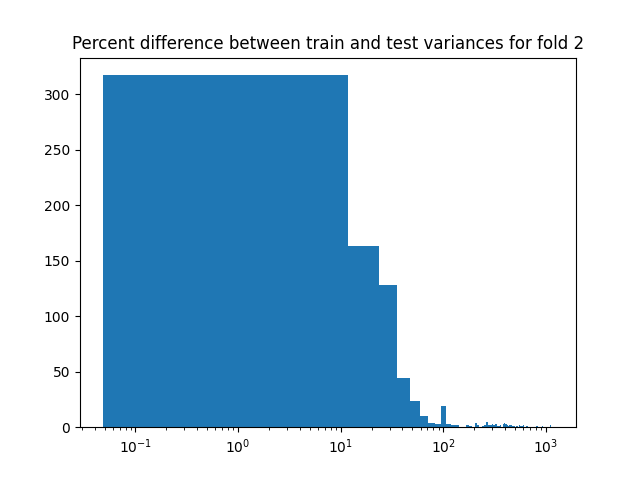
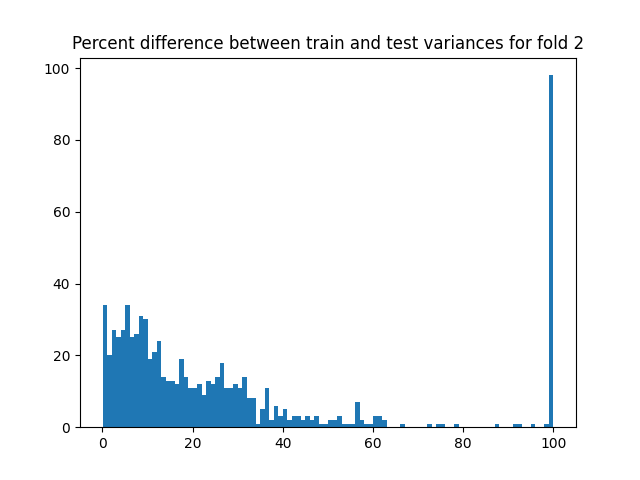
>100 --> 100

diff --git a/split_stats.py b/split_stats.py
@@ -34,10 +34,13 @@ for fold, (train_idx, val_idx) in enumerate(splits.split(np.arange(5070))):
     var_test = np.var(X_test, axis = 0)
     var_with_nan = 100*abs(var_train - var_test) / abs(var_train)
     var_perc_diff = var_with_nan[~np.isnan(var_with_nan)]
+    for i in range(len(var_perc_diff)):
+        if var_perc_diff[i] > 100:
+            var_perc_diff[i] = 100
 
     #want variance among each feature --> axis = 0
     plt.title("Percent difference between train and test variances for fold " + str(fold + 1))
-    plt.xscale("log")
+    #plt.xscale("log")
     plt.hist(var_perc_diff, bins=100)
     plt.savefig("stats_plots/var_"+str(fold+1))
     plt.clf()
@@ -46,9 +49,12 @@ for fold, (train_idx, val_idx) in enumerate(splits.split(np.arange(5070))):
     mean_test = np.mean(X_test, axis = 0)
     mean_with_nan = abs(mean_train - mean_test) / abs(var_test)
     mean_perc_diff = mean_with_nan[~np.isnan(mean_with_nan)]
+    for i in range(len(mean_perc_diff)):
+        if mean_perc_diff[i] > 100:
+            mean_perc_diff[i] = 100
 
     plt.title("Percent difference between train and test means for fold  " + str(fold + 1))
-    plt.xscale("log")
+    #plt.xscale("log")
     plt.hist(mean_perc_diff, bins=100)
     plt.savefig("stats_plots/mean_"+str(fold+1))
     plt.clf()
